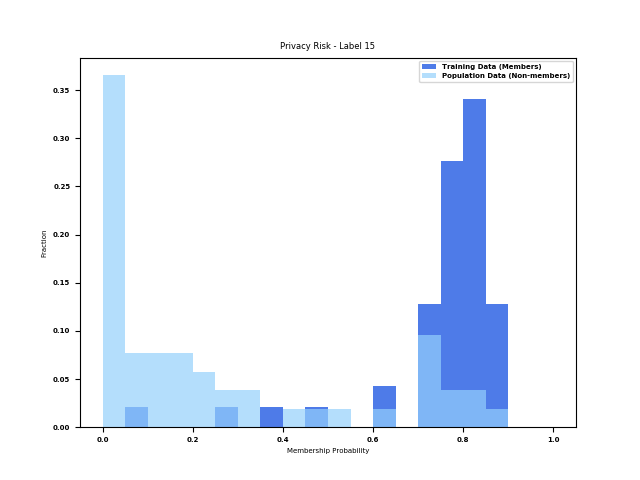
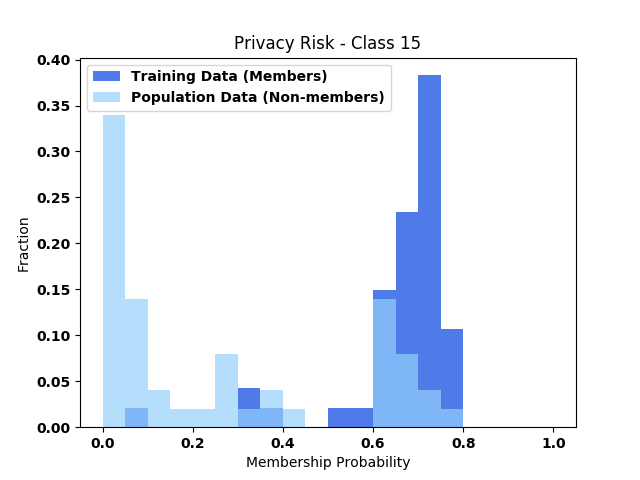
Increase image font size, change label

diff --git a/ml_privacy_meter/attack/whitebox.py b/ml_privacy_meter/attack/whitebox.py
@@ -532,7 +532,7 @@ class initialize(object):
 
         font = {
             'weight': 'bold',
-            'size': 5}
+            'size': 10}
 
         matplotlib.rc('font', **font)
         unique_mem_lab = sorted(np.unique(mlab))
@@ -615,7 +615,7 @@ class initialize(object):
             plt.xlabel('Membership Probability')
             plt.ylabel('Fraction')
 
-            plt.title('Privacy Risk - Label ' + str(lab))
+            plt.title('Privacy Risk - Class ' + str(lab))
             plt.savefig('logs/plots/privacy_risk_label' + str(lab) + '.png')
             plt.close()
 

diff --git a/README.md b/README.md
@@ -110,7 +110,7 @@ A tutorial to run the attack on CIFAR-100 Alexnet model can be found [here](tuto
 6. RMSProp
 
 ## Visualization
-The attack models can also be visualized in Tensorboard's dashboard. The user can view the privacy risk of the model, ROC of membership inference attack, compare privacy risk between datapoints with different labels. 
+The attack models can also be visualized in Tensorboard's dashboard. The user can view the privacy risk of the model, ROC of membership inference attack, compare privacy risk between datapoints from different classes. 
 To create the visualizations, the user needs to call
 ```
 attackobj.test_attack()
@@ -129,9 +129,9 @@ The next plot shows the Receiver Operating Characteristic (ROC) curve for the me
 
 ![ROC Plot](images/roc.png)
 
-The user can also use privacy risk histograms for each output label.
+The user can also use privacy risk histograms for each output class.
 
-![Privacy Risk - Label 15](images/privacy_risk_label15.png)  ![Privacy Risk - Label 45](images/privacy_risk_label45.png) 
+![Privacy Risk - Class 15](images/privacy_risk_label15.png)  ![Privacy Risk - Class 45](images/privacy_risk_label45.png) 
 
 The membership probability predictions by the model are also saved as numpy files in the `logs` folder.
 
